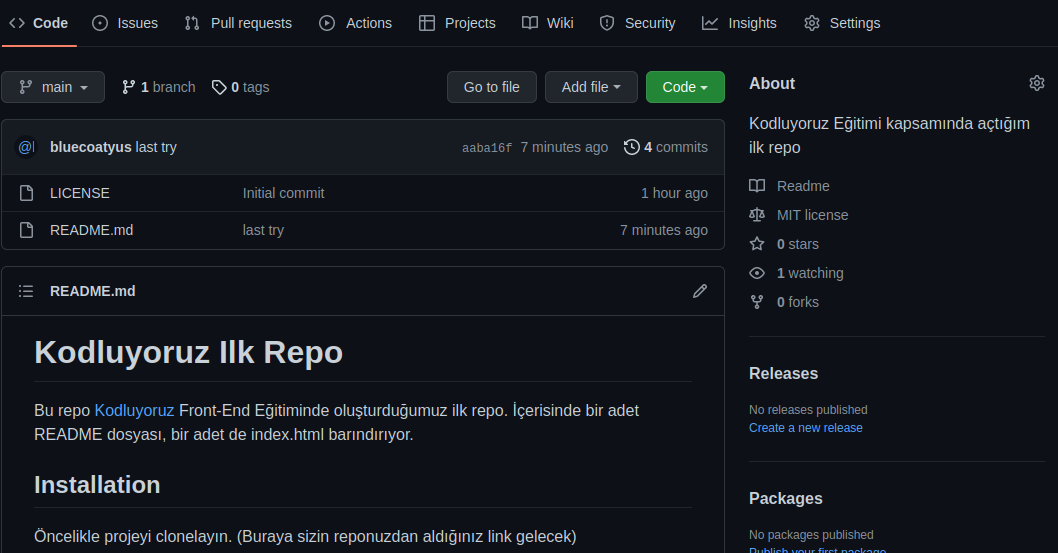
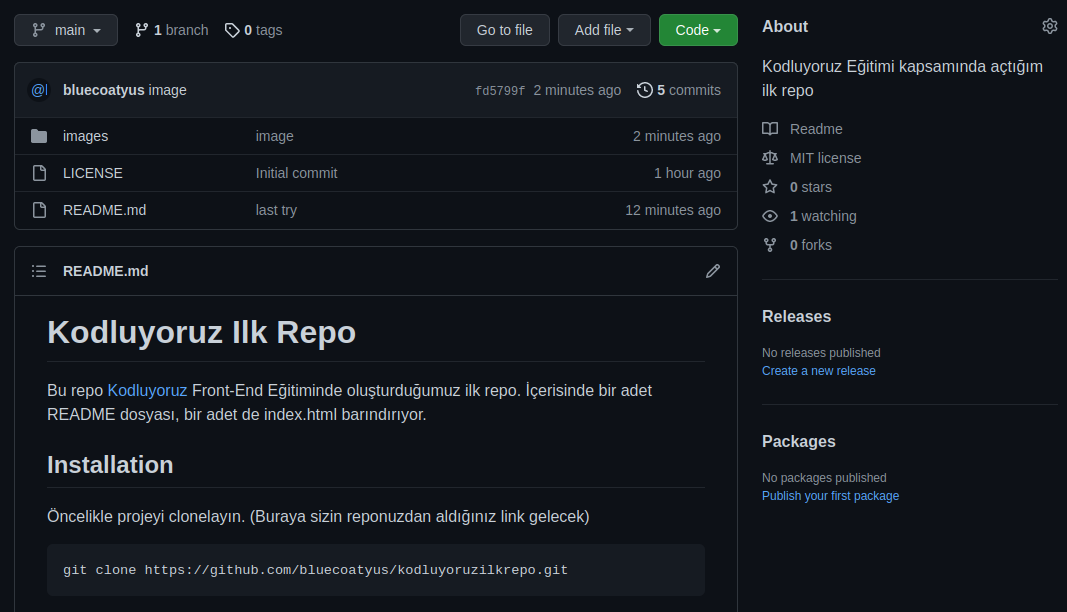
finished

diff --git a/README.md b/README.md
@@ -6,6 +6,10 @@ Bu repo [Kodluyoruz](https://www.kodluyoruz.org) Front-End Eğitiminde oluşturd
 
 
 
+![github](/home/oem/Desktop/kodluyoruzilkrepo/images/img.png)
+
+
+
 ## Installation
 
 
